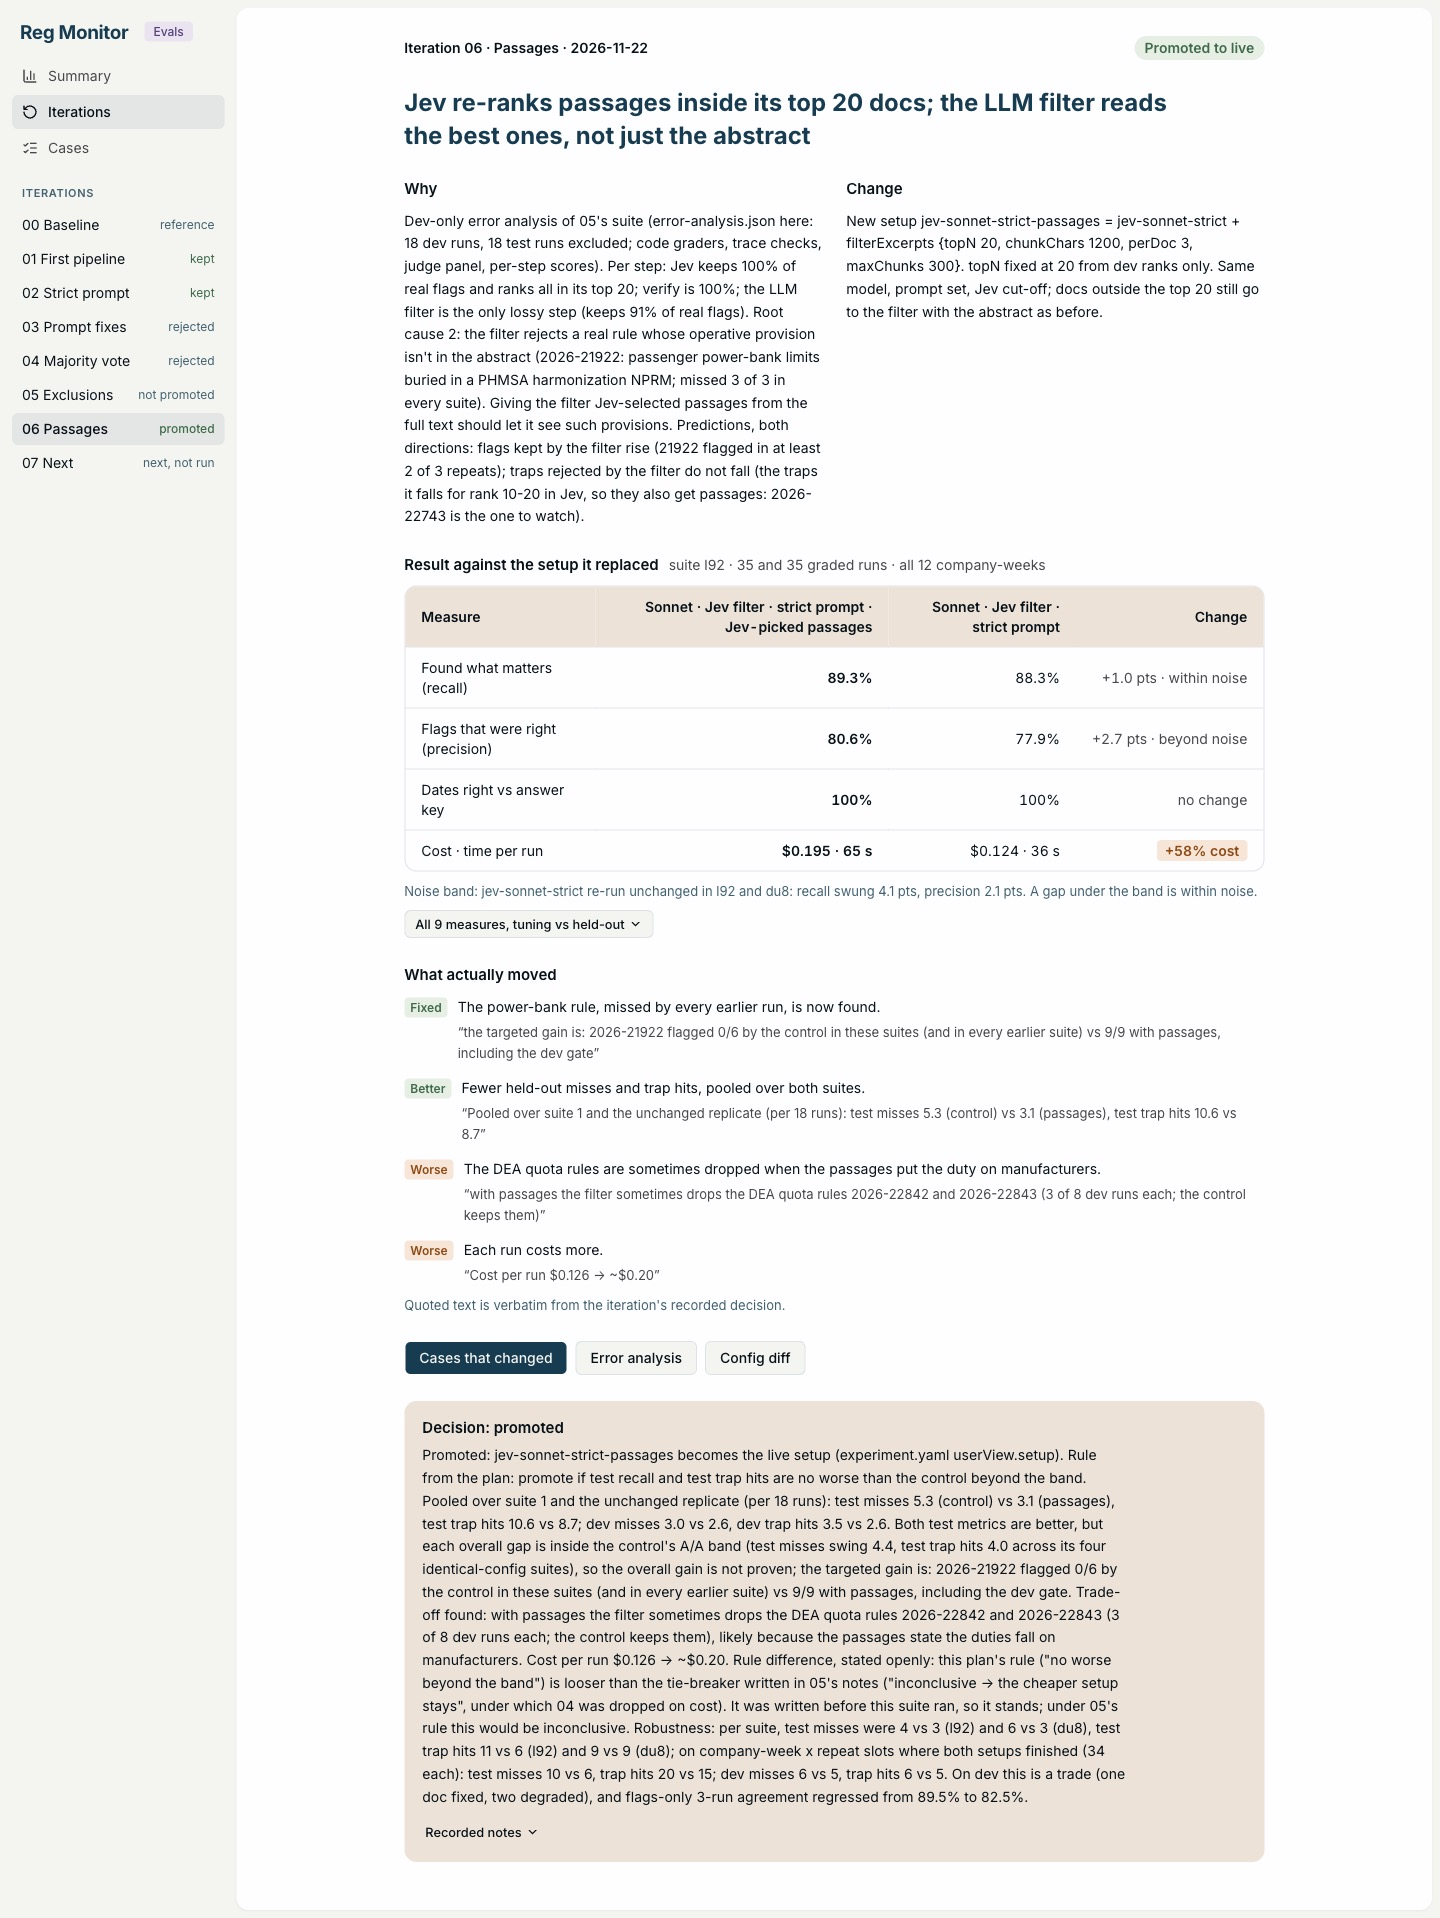
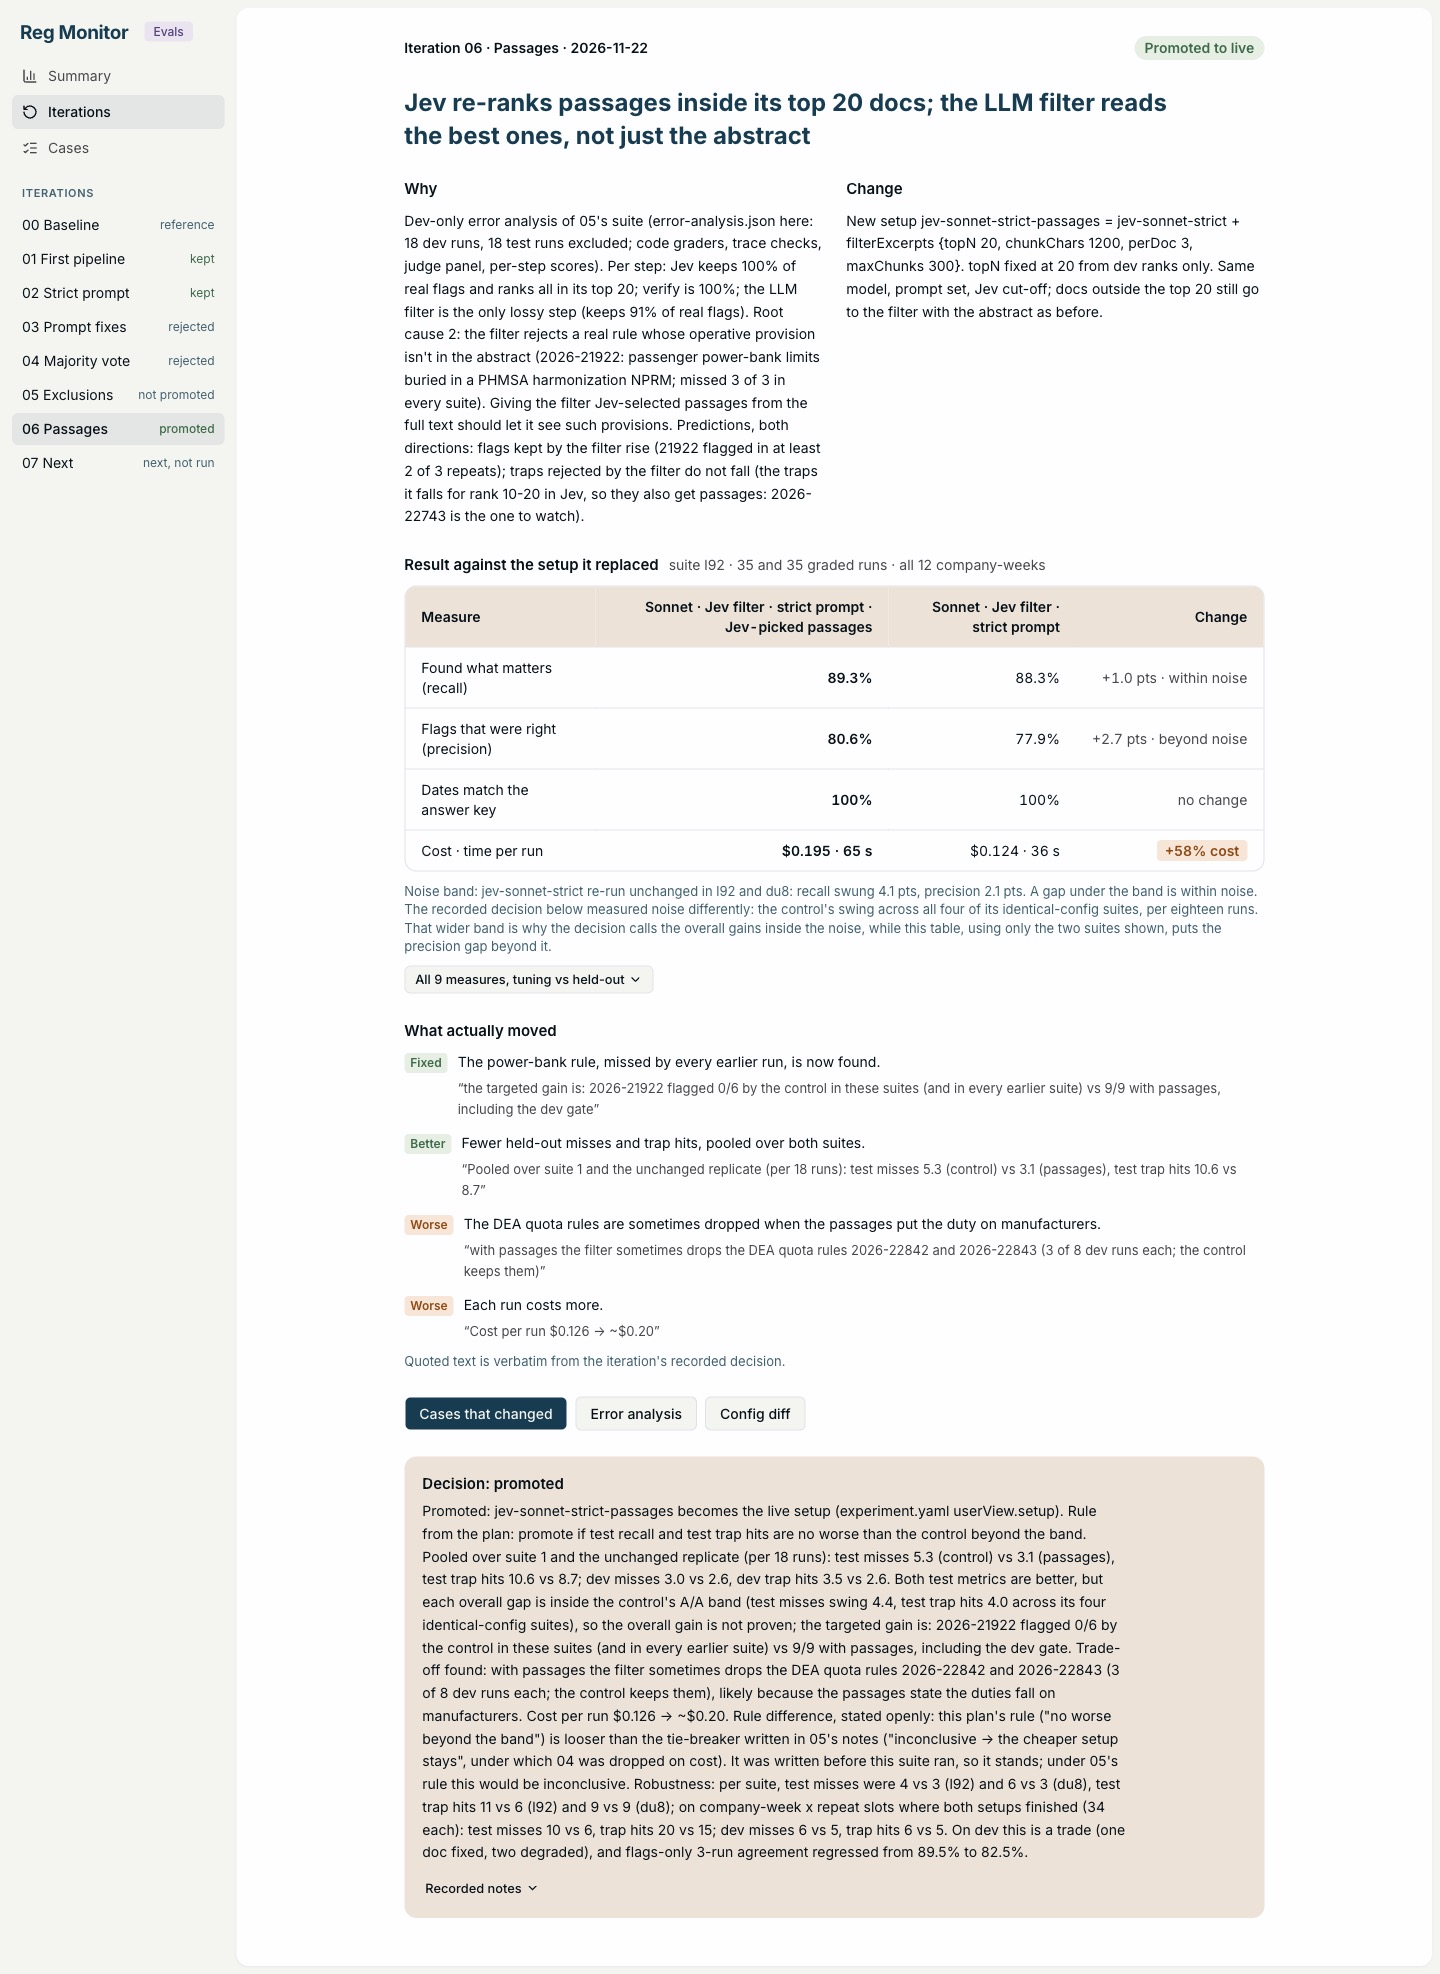
Chunk 08: Stack rows for recharts and shadcn components; wider Gate 2; review-1
Gate 2 also catches typed 157, "20 rules", "<n> changes", "<n> were kept"
(27 canaries). configHash re-measured (242bd91ef7). Report and evidence
updated; gates re-run, typecheck last.

Changed region(s): [[0.2812, 0.0, 0.875, 0.9844], [0.0, 0.0308, 0.1562, 0.2461]]

diff --git a/plans/2026-11-22-demo-build/08-eval-summary-iterations/evidence/mutations/run-review1.py b/plans/2026-11-22-demo-build/08-eval-summary-iterations/evidence/mutations/run-review1.py
@@ -1,0 +1,29 @@
+import subprocess, os, re, json, sys
+ROOT='/Users/anfal/Projects/hobby_projects/gc-ai-swe-take-home/.worktrees/08-eval-summary'
+OUT='/private/tmp/claude-501/-Users-anfal-Projects-hobby-projects-gc-ai-swe-take-home/ddc2e56d-412d-41ac-a327-b31278844f2d/scratchpad/chunk-08/mut'
+M=[
+ ("story: 06 noise note removed", "config/eval-story.yaml", '    noiseNote: "The recorded decision below measured noise differently: the control\'s swing across all four of its identical-config suites, per eighteen runs. That wider band is why the decision calls the overall gains inside the noise, while this table, using only the two suites shown, puts the precision gap beyond it."\n', '', "src/lib/evals/story-schema.test.ts"),
+ ("story-schema: noise note accepts typed numbers", "src/lib/evals/story-schema.ts", '    noiseNote: Prose.optional(),', '    noiseNote: z.string().optional(),', "src/lib/evals/story-schema.test.ts"),
+
+]
+res=[]
+for name,f,old,new,test in M:
+    p=os.path.join(ROOT,f); orig=open(p).read()
+    if orig.count(old)!=1: res.append((name,'ANCHOR NOT UNIQUE',orig.count(old))); continue
+    open(p,'w').write(orig.replace(old,new))
+    try:
+        r=subprocess.run(['pnpm','vitest','run',test],cwd=ROOT,capture_output=True,text=True)
+        out=r.stdout+r.stderr
+    finally:
+        open(p,'w').write(orig)
+    assert open(p).read()==orig
+    failed=[re.sub(r'\s+\d+ms$','',l.strip()) for l in out.splitlines() if l.strip().startswith('×')]
+    summ=[l.strip() for l in out.splitlines() if l.strip().startswith('Tests ')]
+    res.append((name,f,r.returncode,failed,summ))
+    open(os.path.join(OUT,re.sub(r'\W+','_',name)[:60]+'.txt'),'w').write(out)
+with open(os.path.join(OUT,'summary-review1.md'),'w') as o:
+    for x in res:
+        if len(x)==3: o.write(f"- {x[0]}: {x[1]} ({x[2]})\n"); continue
+        name,f,rc,failed,summ=x
+        o.write(f"- **{name}** (`{f}`) → exit {rc}; {summ[0] if summ else ''}; red: {'; '.join(failed) if failed else 'NONE'}\n")
+print(open(os.path.join(OUT,'summary-review1.md')).read())

diff --git a/plans/2026-11-22-demo-build/08-eval-summary-iterations/completion-report.md b/plans/2026-11-22-demo-build/08-eval-summary-iterations/completion-report.md
@@ -51,7 +51,7 @@ no noise verdict, plus a note explaining why (`screenshots/iteration-03-desktop.
 | `src/components/ui/{sheet,table,collapsible,tooltip,chart}.tsx` | generated | `pnpm exec shadcn add sheet table collapsible tooltip chart`. shadcn also added `card.tsx` as a registry dependency; it is unused and was deleted. shadcn skipped `button.tsx`, which is unchanged |
 | `package.json`, `pnpm-lock.yaml` | edited | `recharts` pinned at `3.8.0`, read from `node_modules/recharts/package.json` |
 | `src/app/globals.css` | edited | `--amber`, `--series-recall` (#173c51), `--series-precision` (#99652d) and their `--color-*` aliases |
-| `.claude/resources/project.md` | edited | Layout, Convention Map (new row for the eval view), Conventions (eval prose/number rule, agreement/noise rule, configHash `c017e8bc89`). Stack and Commands were not touched (see "For the lead") |
+| `.claude/resources/project.md` | edited | Layout, Convention Map (new row for the eval view), Conventions (eval prose/number rule, agreement/noise rule, configHash `242bd91ef7`). Stack and Commands were not touched (see "For the lead") |
 | `plan.md` | edited | Ticked T001–T007 and the deliverable |
 
 ## Acceptance criteria
@@ -134,7 +134,7 @@ All ran after the last code edit, in one `bash -s` block with typecheck last. Ou
 | No `poc/` paths | `git ls-tree -r --name-only HEAD \| grep -c '^poc/'`; `git log --name-only --format= ee5d13c..HEAD \| grep -c '^poc/'` | 0 and 0 | — |
 | Tracing | `.next/server/app/evals/**/page.js.nft.json` | Both include `config/eval-story.yaml`; neither names `public/evals` (count 0) | — |
 
-## For the lead: Stack and Commands lines (not edited here, because chunk 03 owns them this wave)
+## Stack and Commands (added to project.md Stack after review i1, once chunk 03 had merged)
 
 - Stack, Charts: `recharts` `3.8.0` (pinned exactly; same as the POC's `package.json`; read from
   `node_modules/recharts/package.json`).
@@ -211,3 +211,19 @@ All ran after the last code edit, in one `bash -s` block with typecheck last. Ou
 - The generated shadcn files import `cn` from the `cn` package and use `bg-black/10` on the sheet overlay
   (generated code, not edited).
 - The `/evals/cases` route (chunk 09) and Models (chunk 10).
+
+## Review i1 follow-ups (lead, 2026-11-23)
+
+`review-1.md` (PASS with warnings) is committed alongside this report. The lead asked for five follow-ups:
+
+| Follow-up | Done | Evidence |
+| --------- | ---- | -------- |
+| project.md Stack | Added a `recharts` 3.8.0 row and a row for the shadcn components in `src/components/ui/`. Versions were read from `node_modules` (recharts 3.8.0, shadcn 4.23.0); `package.json` pins `"recharts": "3.8.0"` | `.claude/resources/project.md` Stack table |
+| Reconcile the two noise statements on 06 | Added an optional `noiseNote` (Prose, no digits) per iteration in `config/eval-story.yaml`, rendered after the band line. 06's note says the decision used the control's swing across all four of its identical-config suites, while the table uses only l92 and du8 | `story-schema.test.ts` › "reconciles iteration 06's computed noise verdict…" (asserts the note, and that the recorded decision really says "across its four identical-config suites"); › "rejects a typed number in a noise note". Mutations in `mutations/summary-review1.md`: deleting the note or loosening it to `z.string()` each turns its test red. `screenshots/iteration-06-desktop.jpg` |
+| `bg-stone-50` → theme token | `bg-background` in both sheets | Computed `pre` background on the final build: `rgb(244, 245, 241)` (`--background`). `screenshots/iteration-03-config-diff-sheet.jpg` |
+| Heading on rejected / not-promoted iterations | "Result against the setup it would have replaced" | The final build's h2s on 03 are `["Why","Change","Result against the setup it would have replaced","What actually moved","Decision: rejected"]`; 06 keeps "…it replaced" |
+| Gate 2 needles | Added `\b157\b`, `\b20 rules`, `\b[0-9]+ changes\b` and `\b[0-9]+ were kept\b`. A bare `20` is not a needle, because SVG sizes in ProgressChart use it | `gates/no-typed-numbers-canaries.txt`: 27 probes (9 needles × CarlTable.tsx, page.tsx, eval-story.yaml). Each fired, was restored and came back clean. Still fails on base: `gates/no-typed-numbers-base.txt` |
+
+The `noiseNote` edit changed `config/eval-story.yaml`, so configHash is re-measured as `242bd91ef7` (project.md
+Conventions updated). The final gate block was re-run after these edits with typecheck last
+(`gates/final-gates.txt`).

diff --git a/plans/2026-11-22-demo-build/08-eval-summary-iterations/review-1.md b/plans/2026-11-22-demo-build/08-eval-summary-iterations/review-1.md
@@ -1,0 +1,37 @@
+# Chunk 08 review, iteration 1: PASS (with warnings)
+
+Reviewed at HEAD 4a0a1f1, tree clean before and after. Gates re-run by the reviewer on that tree: lint 0 problems;
+vitest 25 files / 283 tests; build ok (/evals and /evals/iterations/[id] are dynamic); no-typed-numbers OK;
+03 gates OK; verify-eval-bundle OK (9 suites, 22 user-view runs, 8 iterations); parity OK; no-fs-writes OK;
+typecheck OK. `bash scripts/build-eval-bundle.sh` then `git status --short` empty. No `poc/` in HEAD tree or
+branch history (0 and 0). No src/components/shell change.
+
+## Lead observations, tested
+1. Rendered under `pnpm start -p 3812` in headless Chromium: scrollWidth == clientWidth at 1280 and at 390 for
+   /evals, 00, 03, 06, 07 (and 1280 for an unknown id, which shows "No such iteration").
+2. Context numbers: keys give 12 sets, 20 relevant, 157 traps (recomputed from poc-src keys) = `index.evalSet`.
+   "6 changes" = measured iterations with a comparedTo (data). "3 were kept" = those whose YAML `outcome` is
+   kept/promoted (01, 02, 06): a count over data, with the outcome labels hand-set in config/eval-story.yaml.
+   No digit is typed (EvalStorySchema rejects them). The shell gate only needles 89.8|81.5|72.6|63%|$0.52: a
+   planted "89.8%" in CarlTable.tsx fails it (rc=1), a planted bare "157" or "6 changes" would not.
+3. Noise wording: /evals shows no 06 verdict; iteration-06 says recall "within noise" (+1.0 vs band 4.1) and
+   precision "beyond noise" (+2.7 vs 2.1), computed by `noiseVerdict` (strict <). Consistent with Decision 10.
+4. Agreement reproduced independently from raw POC runs and keys (python, not the repo code): live 335/354
+   relevance, 40/40 tier over 69 runs / 24 groups; baseline 160/177 = 0.904 and 7/10 = 0.70 over 36 runs.
+   Matches index.json exactly.
+5. Screenshots committed: the rubric asks for them in the report; fine.
+
+Own mutations (each restored): near band widened; noiseVerdict `<=`; relevance drops the "none flagged" case;
+tier checks `some` instead of `every`; cost direction ignored. All five went red in named tests.
+configHash c017e8bc89 in project.md reproduced by running `configHash()`.
+
+## Warnings
+- recharts 3.8.0 (read from node_modules) is not in project.md Stack, nor the shadcn components added. The
+  report hands this to the lead; it must land before merge or the rubric item stays open.
+- Page shows two noise statements for 06: computed "precision beyond noise" (2-suite band) next to the recorded
+  decision's "gap inside the control's A/A band" (4-suite band). The report explains it; the page does not.
+- Gate 2 needles are the mockup's five figures only; a typed `20`, `157` or `6` in a component is not caught.
+- `EvalAppConfigSchema` is a second export in schemas.ts beyond the evalTargets block (rubric: that block is the
+  only change). Small and justified in the report.
+- `bg-stone-50` (DiffSheet.tsx:25, ErrorAnalysisSheet.tsx:43) is a raw palette class, not a theme token.
+- 03 page heading says "Result against the setup it replaced" for a rejected iteration.

diff --git a/.claude/resources/project.md b/.claude/resources/project.md
@@ -50,10 +50,12 @@ matches the POC's lockfile (`git show poc:poc/pnpm-lock.yaml`). Chunk 02 added `
 | Language | `typescript` | 5.9.3 |
 | Styling | `tailwindcss` · `@tailwindcss/turbopack` · `tw-animate-css` | 4.3.3 · 4.3.3 · 1.4.0 |
 | Components | `shadcn` (style `base-nova`) · `@base-ui/react` · `class-variance-authority` · `cn` · `lucide-react` | 4.23.0 · 1.9.0 · 0.7.1 · 0.5.2 · 1.77.0 |
+| shadcn components in `src/components/ui/` | button, badge (chunk 01); sheet, table, collapsible, tooltip, chart (chunk 08, `pnpm exec shadcn add`, shadcn 4.23.0) | — |
 | Model calls | `ai` · `@ai-sdk/gateway` | 7.0.179 · 4.0.152 |
 | Config | `yaml` · `zod` | 2.9.1 · 4.6.7 |
 | Dates (tiering, date verification) | `date-fns` | 4.4.0 |
 | Concurrency limits (pipeline stages) | `p-limit` | 7.3.3 |
+| Charts (eval view) | `recharts` (pinned; same version as the POC's `package.json`) | 3.8.0 |
 | Server marker | `server-only` | 0.0.1 |
 | Tests / lint | `vitest` · `eslint` · `eslint-config-next` | 5.1.1 · 9.39.5 · 16.4.6 |
 
@@ -205,7 +207,7 @@ a follow-up.
 - **`configHash()` covers every `.yaml` under `config/` except `evalsets/`**, chunk 01's `app.yaml`
   included, so adding or editing any config YAML changes the hash stamped on a run. The POC's final
   config hashes to `9a0f857741`; this repo's config hashed to `a113914a72` at chunk 02 (brightside's
-  `use: eval` plus `app.yaml`) and to `c017e8bc89` at chunk 08 (`eval-story.yaml` plus `evalTargets` in
+  `use: eval` plus `app.yaml`) and to `242bd91ef7` at chunk 08 (`eval-story.yaml` plus `evalTargets` in
   `app.yaml`). Compare hashes only between runs of this repo.
 - **No filesystem writes in server code.** Vercel functions can't persist files, so anything a
   server module needs to remember lives in memory for the life of the process (see the HTTP cache in

diff --git a/plans/2026-11-22-demo-build/08-eval-summary-iterations/evidence/mutations/summary-review1.md b/plans/2026-11-22-demo-build/08-eval-summary-iterations/evidence/mutations/summary-review1.md
@@ -1,0 +1,2 @@
+- **story: 06 noise note removed** (`config/eval-story.yaml`) → exit 1; Tests  1 failed | 9 passed (10); red: × reconciles iteration 06's computed noise verdict with the band its recorded decision used
+- **story-schema: noise note accepts typed numbers** (`src/lib/evals/story-schema.ts`) → exit 1; Tests  1 failed | 9 passed (10); red: × rejects a typed number in a noise note
